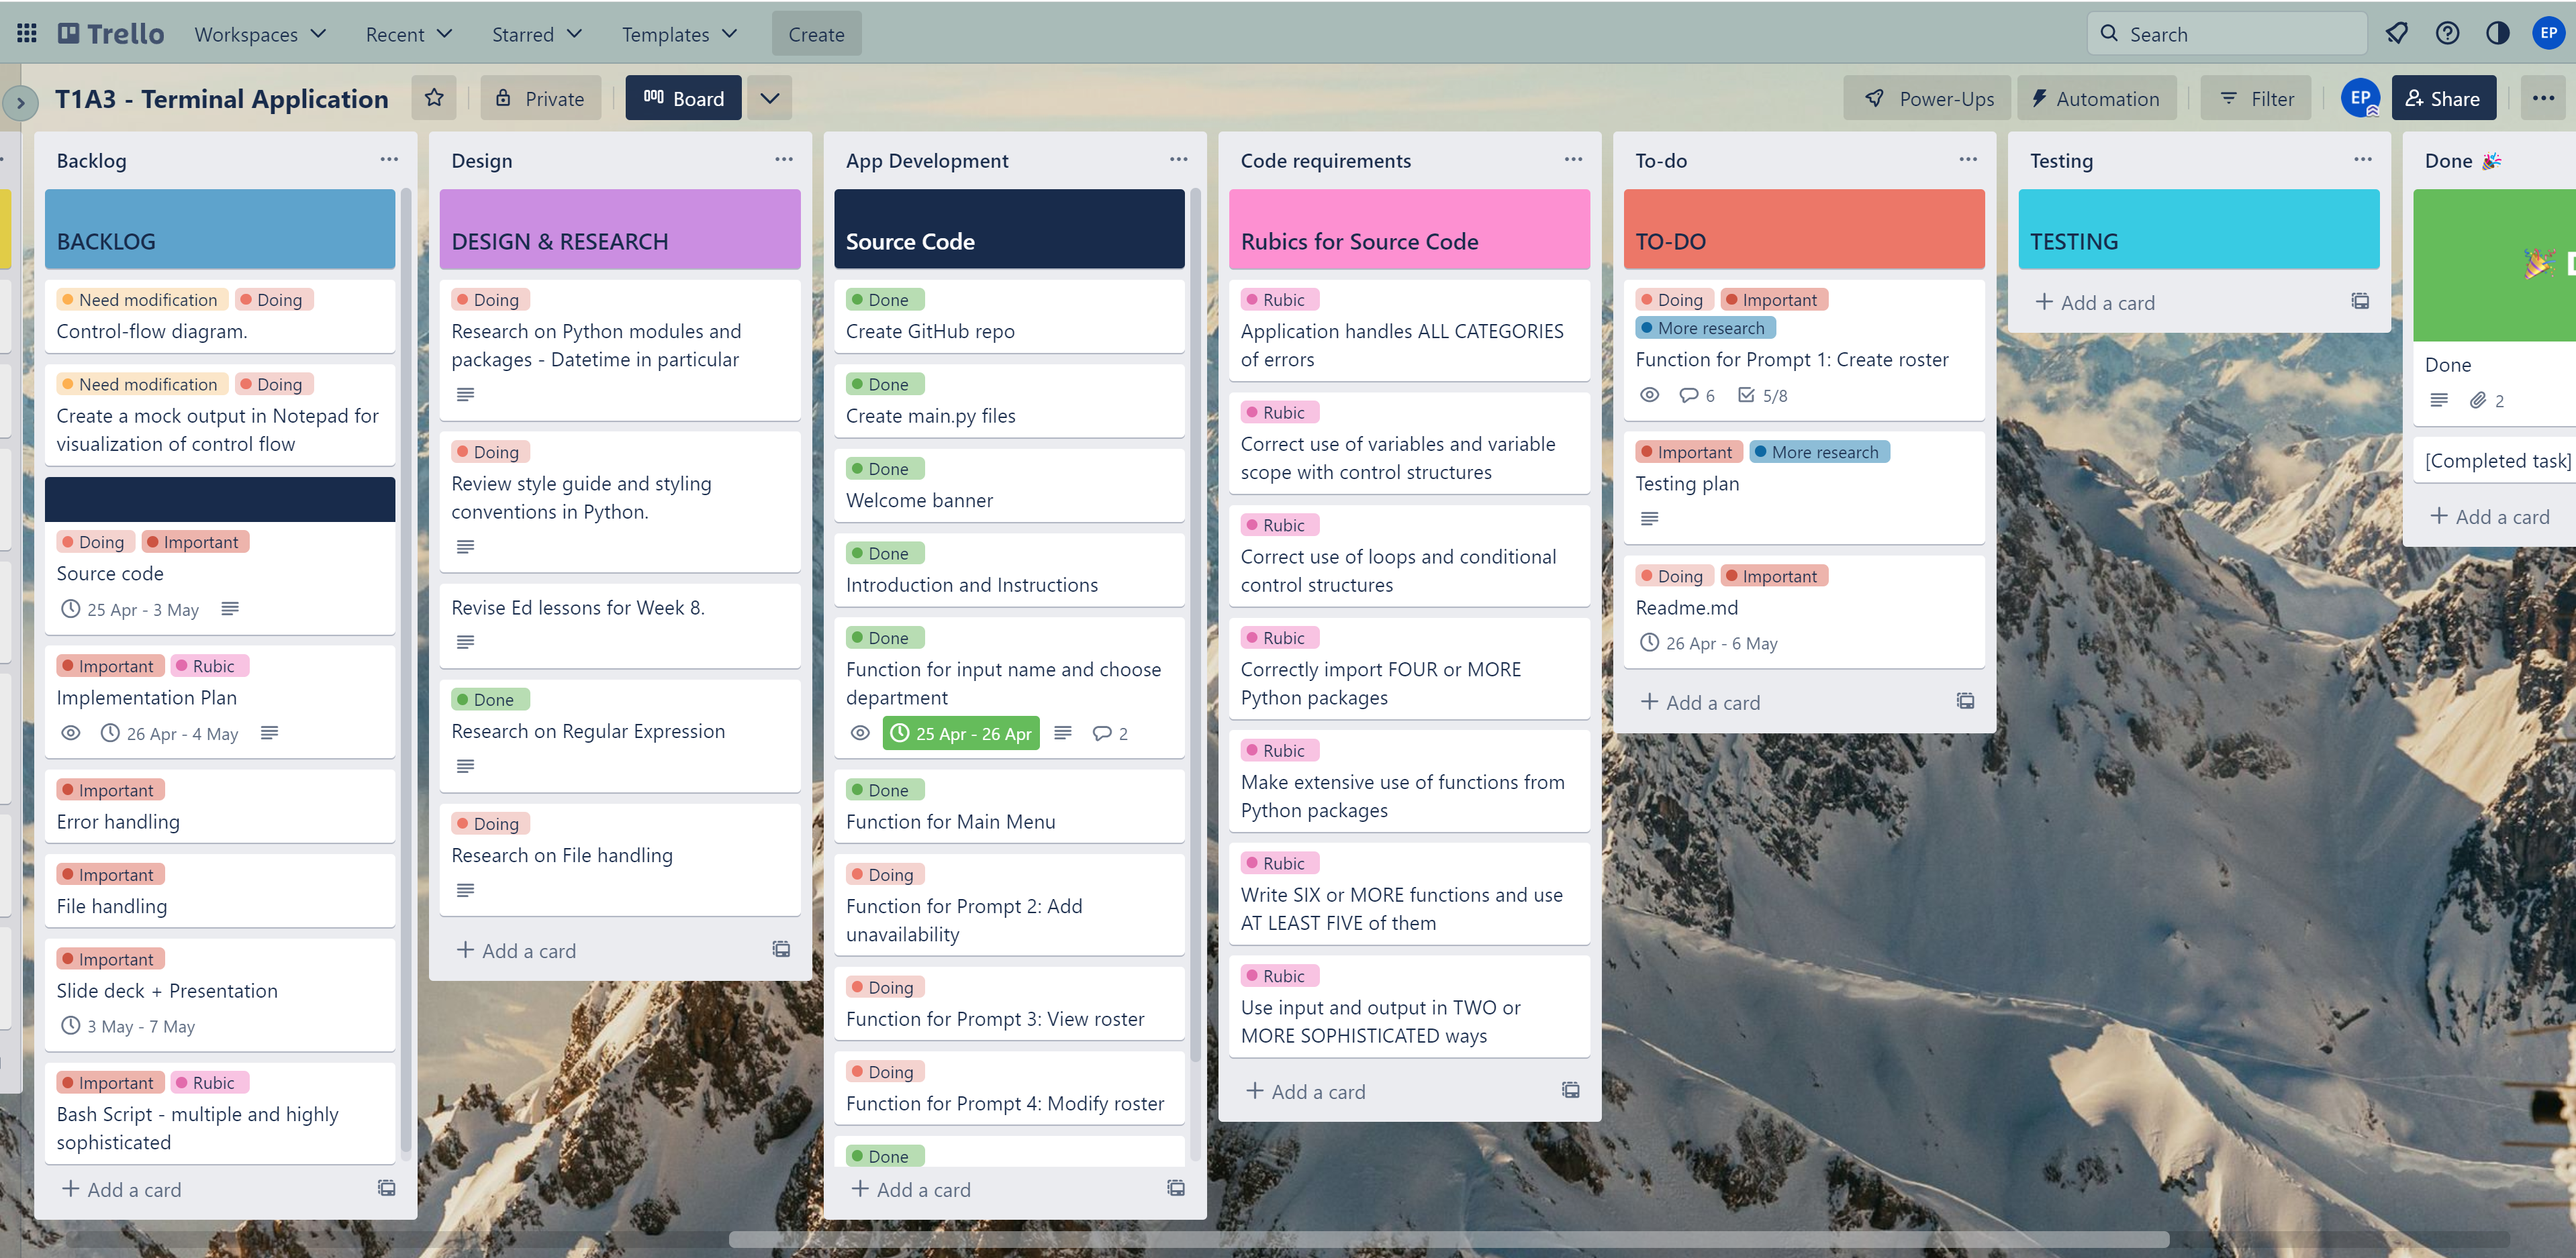
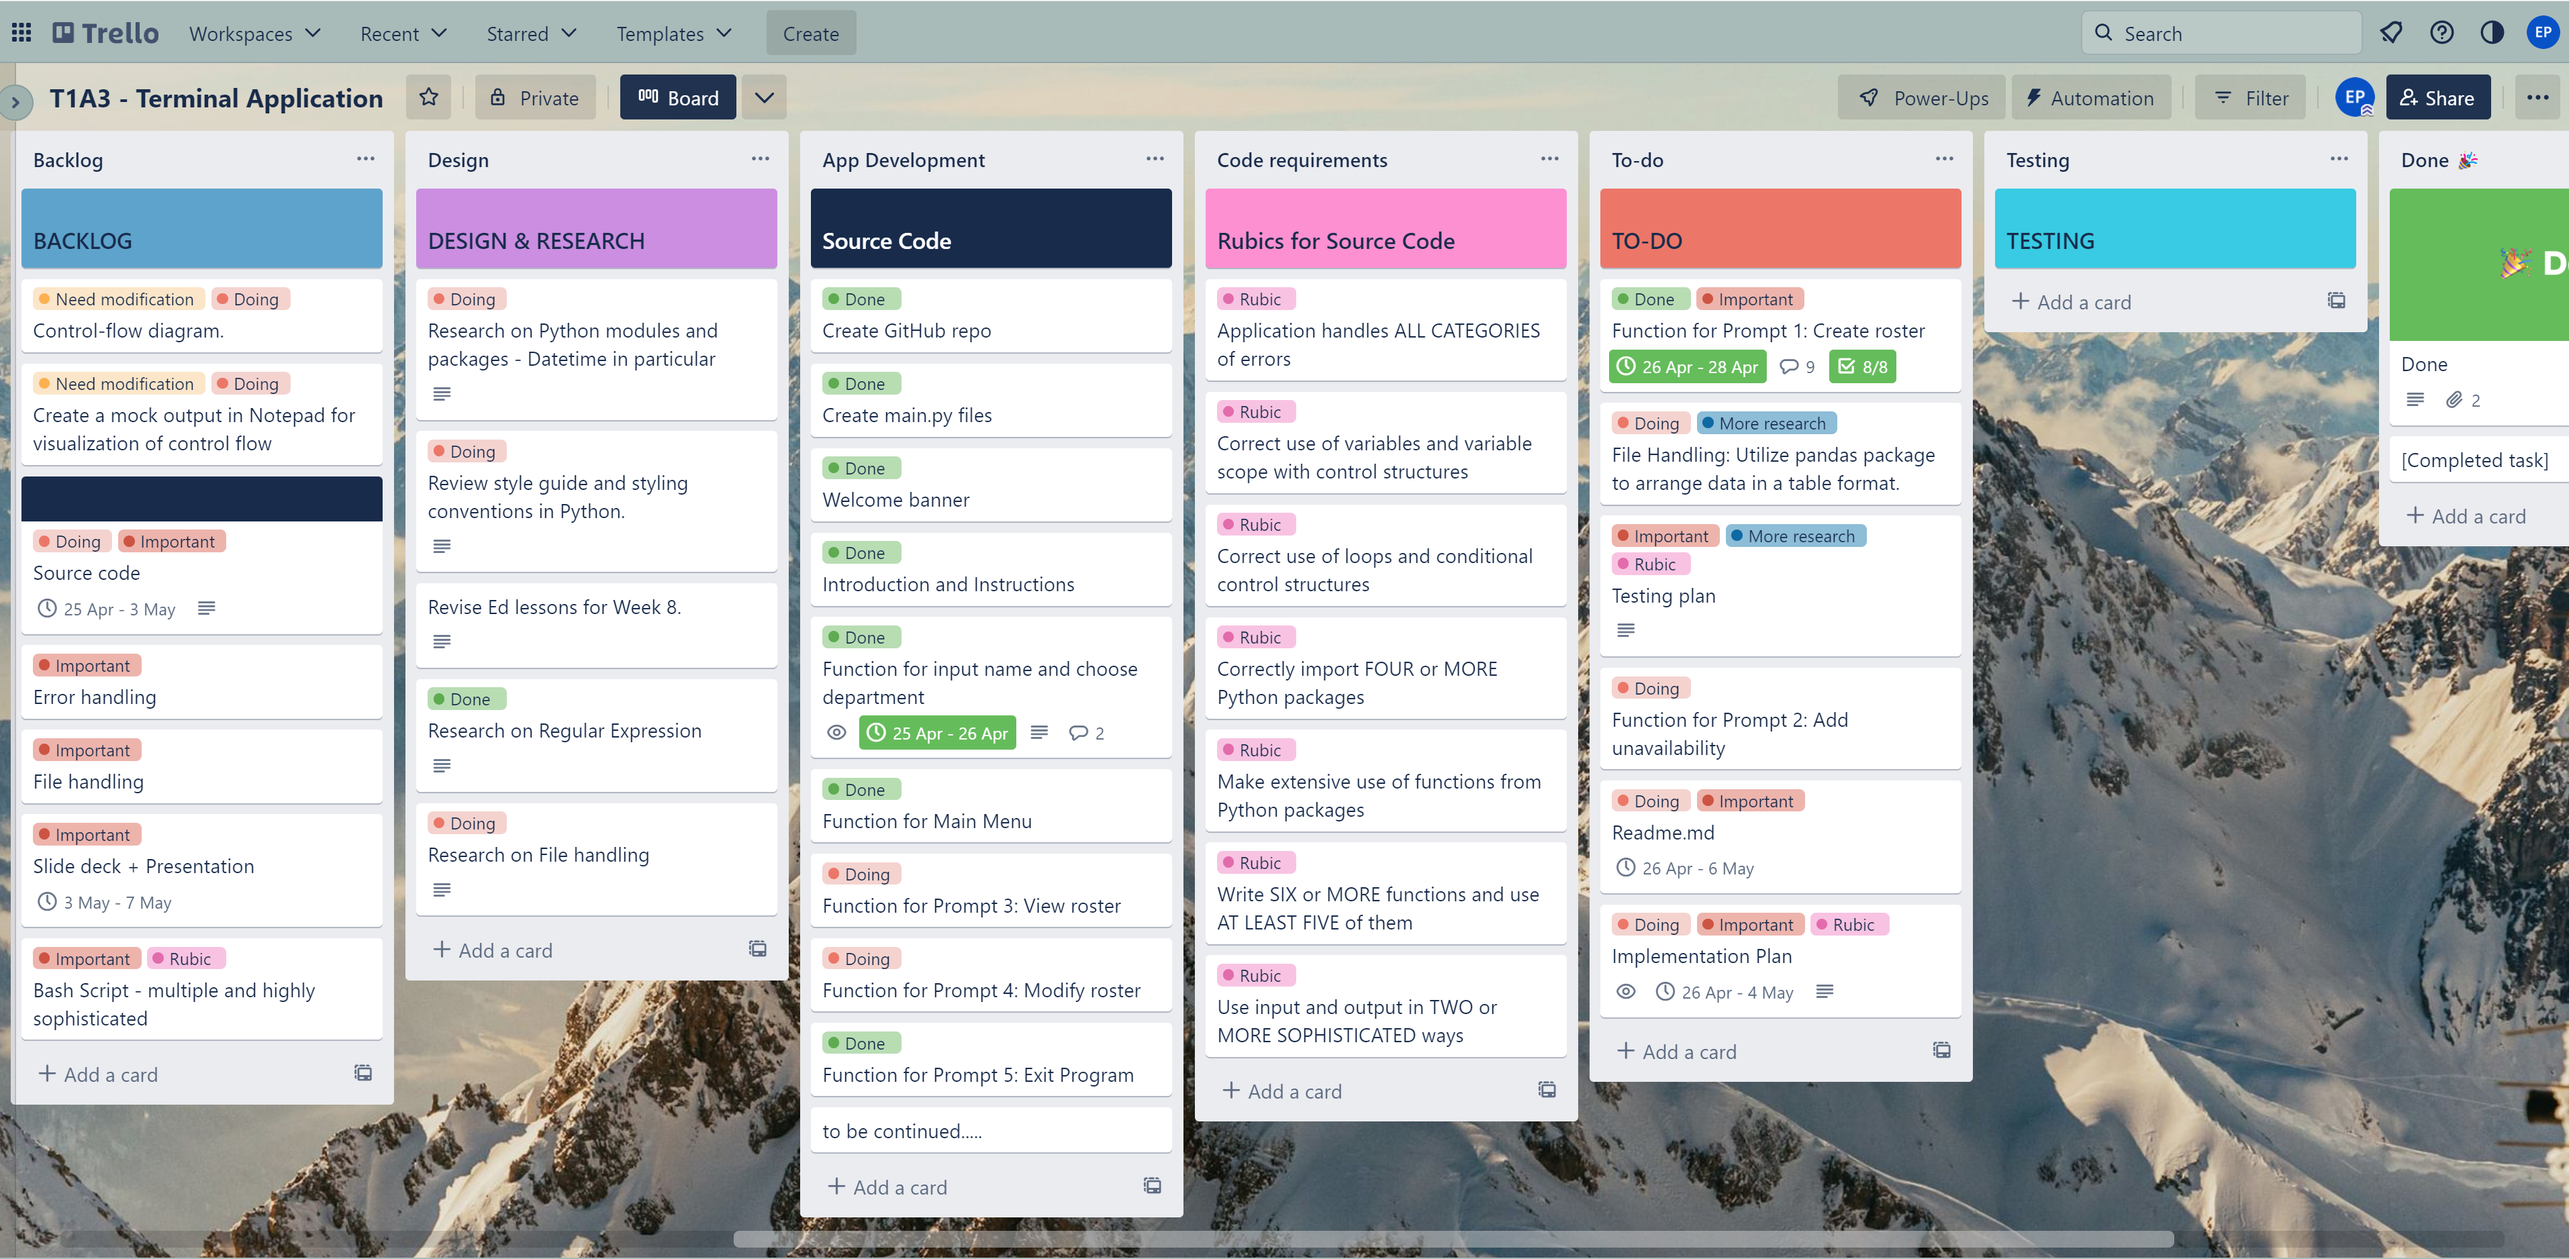
Updated Readme file

diff --git a/README.md b/README.md
@@ -1,36 +1,141 @@
-# My Pham - T1A3 - Terminal Application 
+# **My Pham - T1A3 - Terminal Application**
 
-## References
+# References
 
-## Links
+# Links
 1. GitHub repository:
 2. Presentation:
 3. Project management plan:
 
-## Code style guide and styling conventions
+# Code style guide and styling conventions
 
 1. Rossum, G., Warsaw, B., Coghlan, N. (2001) PEP8 - Style Guide for Python Code [Styling Convention]. https://peps.python.org/pep-0008/
 
-## Functionalities
+2. Goodger, D., Rossum, G. (2001) PEP 257 - Docstring Conventions [Styling Convention]. https://peps.python.org/pep-0257/
 
-**Description**
+# Functionalities
+
+## Description
 
 NKG Corp. is a warehousing and distribution company. They have a large number of staff working across rotating shifts. **RosterBoard** is an application that help the company collect the availability and unavailability from rostered staff in order to prepare the workforce plan. The application also allows the staff to view their upcoming roster and flexibly schedule their work. 
 
 
-**Main features**
-1. Users (the company staff) are asked to provide their name and their department before starting their work schedule. If all answers are valid, they can move on to the main menu. 
-2. The main menu has 5 prompts : Create roster, Add unavailability, View roster, Modify Roster and Exit program. 
+## Main features
+1. Users (the company staff) are asked to provide their name and their department before starting their work schedule. If all answers are valid, they get prompted to the home menu. 
+2. The main menu has 5 prompts : Create Roster, Add Future Unavailability, View Roster, Modify Roster and Exit Program. 
 3. In the Create Roster function, users are requested to create their roster for the following week based on a list of questions:
     - Choose their available days for the following week (Monday to Sunday).
     - Choose their available shifts for the chosen day.
 
     There are a few criterias when creating the roster. First, if the numbers of available day is less than THREE days, users will be prompted to choose 1 more available day or if they can not provide more days, they will be informed that they have no roster for the following week and the program ends here. Second, users can only choose ONE shift per available day. 
 
-4. In the Add Unavailability function, users are requested to manually input their unavailability for ONE week after the following week according to a given format. Here they can input as many days or shifts as they wish to be their unavailability. If they have no unavailability, this will not get recorded. 
+4. In the Add Future Unavailability function, users are requested to manually input their unavailability for ONE week after the following week according to a given format. Here they can input as many days or shifts as they wish to be their unavailability. If they have no unavailability, this will not get recorded. 
 
 5. In the View Roster function, users' final work schedule is displayed, including staff name, department, the roster for the following week and unavailable days for the week after the following week. Users can confirm if the work schedule is correct or they can change their schedule, in which users will be prompted to the next function.
 
 6. In the Modify Roster function, users can change their availability/unavailability if they change their mind, these modified information will get updated in their final roster and users can go back to the Main Menu to view the modified schedule.
 
-working in progress...
+## Control Flow Diagram
+
+The below diagram illustrates how the flow of data and how users are prompted to action different tasks while accessing different functions of the app. 
+
+![Control Flow Diagram](./docs/RosteringApp_ControlFlowDiagram.png)
+(Diagram created using diagram.net.io)
+
+<br>
+
+# Implementation Plan
+
+### Overall process
+
+1. The project management plan is outlined with the kanban board format using Trello (screenshots and a link to Trello will be proved later on).
+
+2. After the idea got approved by educator, a control flow diagram is created to visualize the flow of data in the app. The diagram reflects the overall logic of the app. The diagram was slightly modified along the way due to little compromised changes in the development process. 
+
+3. A mock output is written using notepad to help visualizing the expected output when the app is run successfully and without errors. The mock output was created according to the designed control flow diagram. 
+
+4. Start writing the source code. Define a range of Classes, Functions, Modules and Methods used for each listed feature. 
+
+5. Errors were handled when each function's tasks were carried out during the development process.
+
+6. Develop a testing plan, including manual tests and tests using Pytest.
+
+7. Write scripts for app execution and develop help documentation. 
+
+8. Reporting documentation (Readme file) was updated along the way whenever a task was finished.  
+
+9. Summarise the project with slide deck and presentation 
+
+<br>
+
+### The implementation of each feature and task priority. 
+
+The development steps were based on the control flow diagram. This is because the purpose of the app is to develop a range of prompts to get information from the users (the staff company) and build a work schedule that allows users to manipulate in their own way by using different app functions. 
+
+There are only a few in-built criteria applied to users selection, which can be considered as company's policy. Because of this design, error handling is varied as users will be prompted to re-enter their inputs if the criteria are not met. 
+
+Once the app has the data needed, it will process the collected data and display the data or modify the data upon users's request. 
+
+Therefore, the implementation priority is listed as below:
+
+1. Users registration
+2. Create Roster Function
+3. Add Future Unavailability Function
+3. View Roster Function
+4. Modify Roster Function
+
+<br>
+
+Below are checklists of tasks for each features and a short brief of work progress for each day during development process, followed by screenshots of project management platform (Trello).
+
+**Users registration**
+
+This section includes getting users' input for their name and their department. 
+
+
+|Checklist |                                        Task                                        |  Timeline      | 
+|----------|------------------------------------------------------------------------------------|----------------|
+|1         |A prompt to request users' name                                                     |25 Apr - 26 Apr |
+|2         |Error handling conducted: name input must be all letters.                           |25 Apr - 26 Apr |
+|3         |A prompt to request users's selection for their department                          |25 Apr - 26 Apr |
+|4         |Error handling conducted: selection must be in the given list                       |25 Apr - 26 Apr |
+|5         |A greeter is displayed once users finish registering, followed by the Home Menu     |25 Apr - 26 Apr |
+|6         |A Home Menu is displayed with 5 main prompts                                        |25 Apr - 26 Apr |
+
+
+Day 1: Create project management plan, design control flow program, create mocking output, create GitHub repo and main.py file, complete welcome banner, introduction and instructions, push the first commit. 
+
+![Trello_Day1_1](./docs/Trello_Day1_1.png)
+![Trello_Day1_2](./docs/Trello_Day1_2.png)
+
+
+
+**Create Roster Function**
+
+This section includes getting users' input for their name and their department. 
+
+
+|Checklist |                                        Task                                        |  Timeline      | 
+|----------|------------------------------------------------------------------------------------|----------------|
+|1         |Available days are automatically generated from a given roster release date         |26 Apr - 28 Apr |
+|2         |When users choose a date, it get recorded in the schedule_record.csv                |26 Apr - 28 Apr |
+|3         |User can keep selecting available days until they hit 8 to end                      |26 Apr - 28 Apr |
+|4         |A chosen day can not be duplicated in the schedule_record.csv file                  |26 Apr - 28 Apr|
+|5         |User is required to choose more than 3 days - if less than 3 they will be prompted to add more days or not getting rostered    |26 Apr - 28 Apr |
+|6         |No duplication in schedule_record.csv file. Only ONE shift per day is valid         |26 Apr - 28 Apr |
+|6         |User is prompted to choose shifts after each time they choose an available day.     |26 Apr - 28 Apr |
+|6         |CSV file is deleted once exit program and recreated when program starts             |26 Apr - 28 Apr |
+
+
+Day 2: Develop Create Roster Function for when Prompt 1 in Home Menu is selected, including formatting, data flow, file handling and error handling. 
+
+![Trello_Day2_2](./docs/Trello_Day2_2.png)
+![Trello_Day2_3](./docs/Trello_Day2_3.png)
+
+<br>
+
+Day 3: Complete Create Roster Function and update Readme file, start Add Future Unavailability Function. 
+![Trello_Day3_1](./docs/Trello_Day3_1.png)
+![Trello_Day3_2](./docs/Trello_Day3_2.png)
+
+to be continued...
